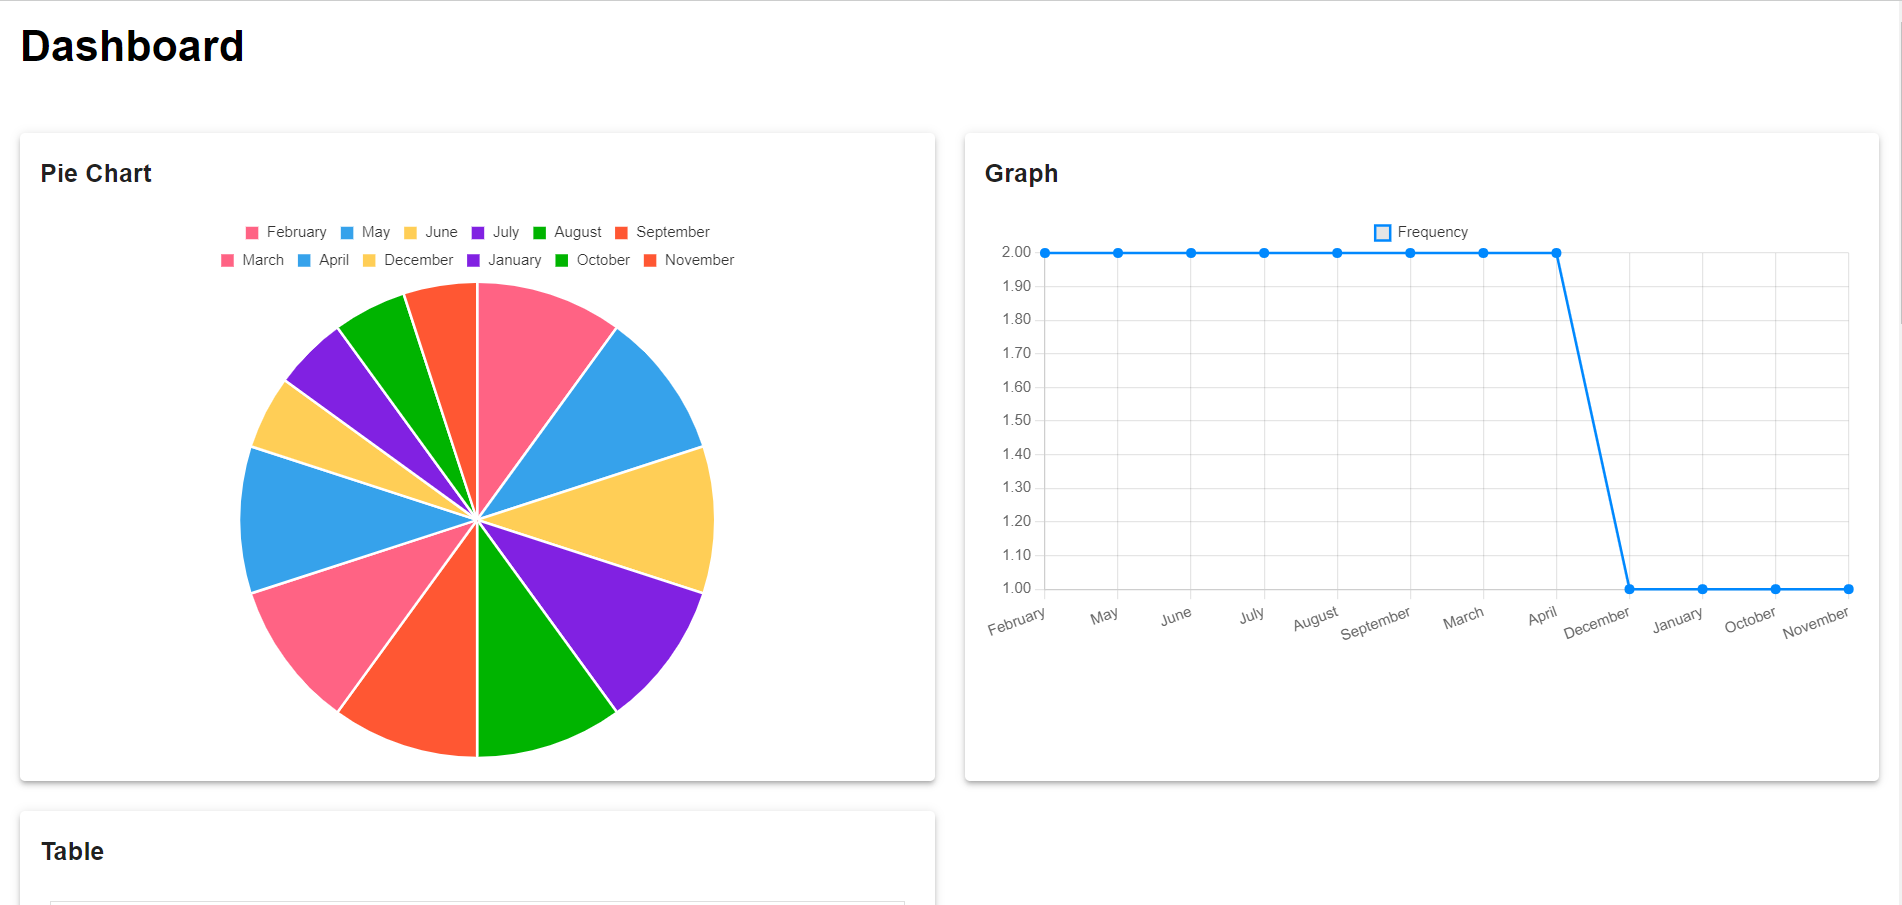
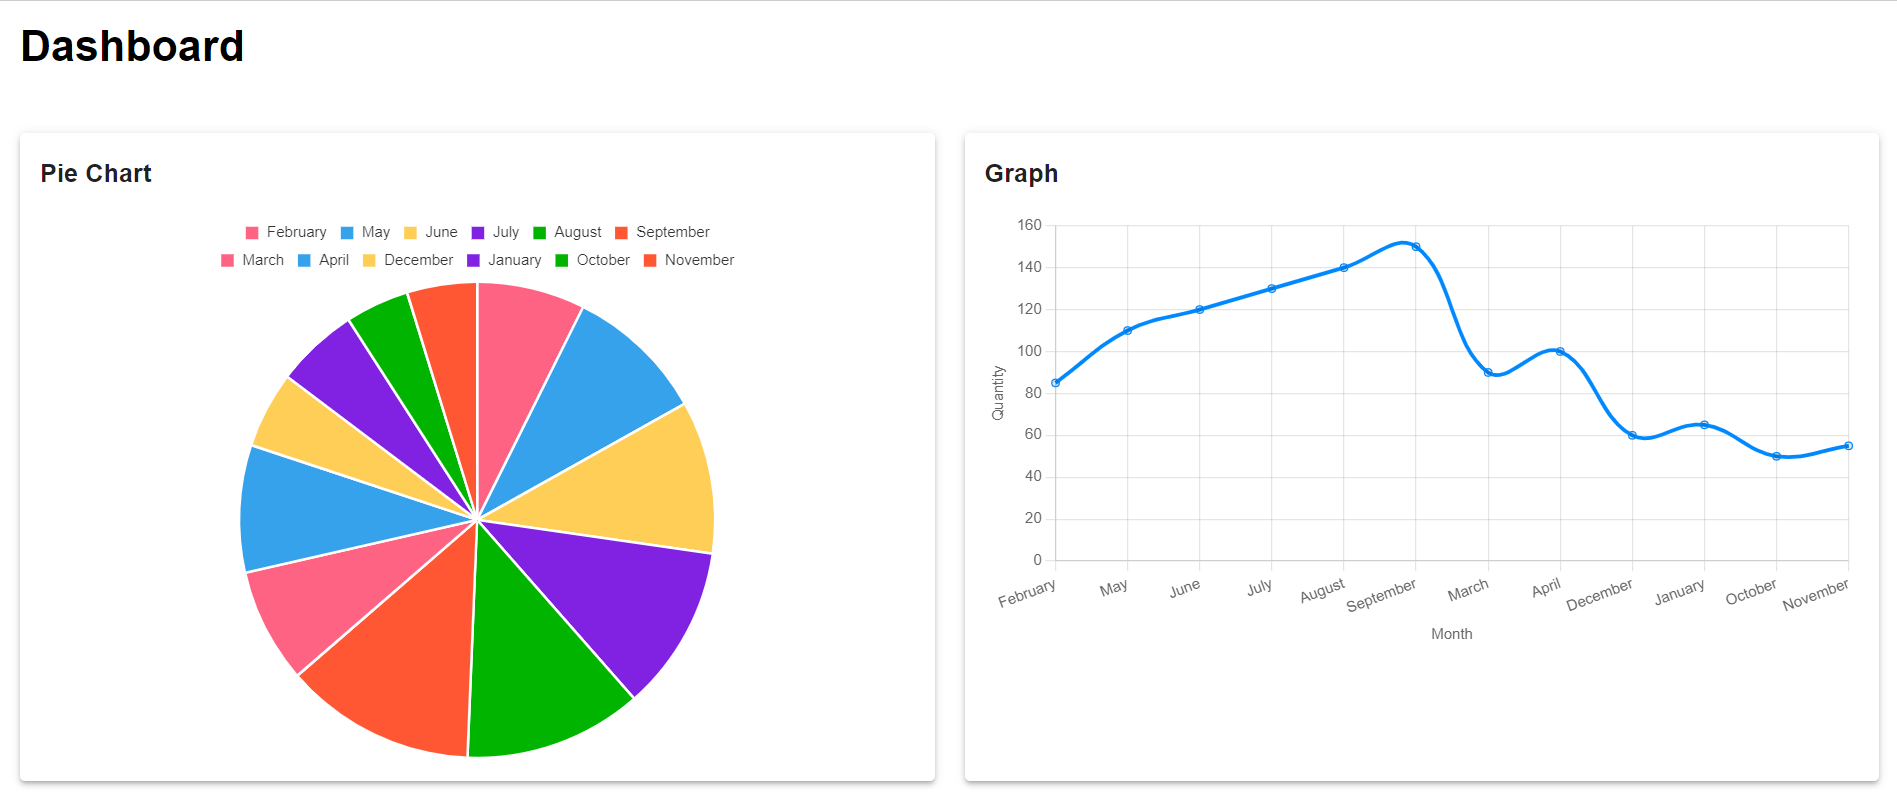
dashboard ui

diff --git a/src/components/chart/LineChart.js b/src/components/chart/LineChart.js
@@ -2,20 +2,18 @@ import React, { useEffect, useRef } from 'react';
 import Chart from 'chart.js/auto';
 import { Grid } from '@mui/material';
 
-export const LineGraph = ({ data }) => {
+export const LineChart = ({ data }) => {
 
     const chartRef = useRef(null);
 
-
     const chartInstanceRef = useRef(null);
 
-    const monthFrequency = calculateMonthFrequency(data);
+    const monthQuantity = calculateMonthQuantity(data);
 
     useEffect(() => {
         const ctx = chartRef.current?.getContext('2d');
 
         if (ctx) {
-
             if (chartInstanceRef.current) {
                 chartInstanceRef.current.destroy();
             }
@@ -23,28 +21,36 @@ export const LineGraph = ({ data }) => {
             chartInstanceRef.current = new Chart(ctx, {
                 type: 'line',
                 data: {
-                    labels: monthFrequency.map((entry) => entry.name),
+                    labels: monthQuantity.map((entry) => entry.name),
                     datasets: [
                         {
-                            label: 'Frequency',
-                            data: monthFrequency.map((entry) => entry.value),
-                            fill: false, 
-                            borderColor: '#0088FE', 
-                            borderWidth: 2,
-                            pointBackgroundColor: '#0088FE', 
+                            label: 'Quantity',
+                            data: monthQuantity.map((entry) => entry.value),
+                            fill: false,
+                            borderColor: '#0088FE',
+                            tension: 0.4,
                         },
                     ],
                 },
                 options: {
+                    scales: {
+                        y: {
+                            beginAtZero: true,
+                            title: {
+                                display: true,
+                                text: 'Quantity',
+                            },
+                        },
+                        x: {
+                            title: {
+                                display: true,
+                                text: 'Month',
+                            },
+                        },
+                    },
                     plugins: {
                         legend: {
-                            display: true,
-                            position: 'top',
-                            labels: {
-                                color: 'rgba(0, 0, 0, 0.8)',
-                                boxWidth: 12,
-                                padding: 10,
-                            },
+                            display: false,
                         },
                     },
                 },
@@ -56,7 +62,7 @@ export const LineGraph = ({ data }) => {
                 chartInstanceRef.current.destroy();
             }
         };
-    }, [monthFrequency]);
+    }, [monthQuantity]);
 
     return (
         <Grid container justifyContent="center" sx={{
@@ -70,18 +76,19 @@ export const LineGraph = ({ data }) => {
     );
 };
 
-const calculateMonthFrequency = (data) => {
-    const frequency = {};
+const calculateMonthQuantity = (data) => {
+    const quantityPerMonth = {};
 
     data?.forEach((entry) => {
         const month = new Date(entry.createdAt).toLocaleString('default', { month: 'long' });
+        const quantity = entry.quantity || 0;
 
-        if (frequency[month]) {
-            frequency[month] += 1;
+        if (quantityPerMonth[month]) {
+            quantityPerMonth[month] += quantity;
         } else {
-            frequency[month] = 1;
+            quantityPerMonth[month] = quantity;
         }
     });
 
-    return Object.keys(frequency).map((key) => ({ name: key, value: frequency[key] }));
+    return Object.keys(quantityPerMonth).map((key) => ({ name: key, value: quantityPerMonth[key] }));
 };

diff --git a/src/components/chart/PieChart.js b/src/components/chart/PieChart.js
@@ -3,11 +3,10 @@ import Chart from 'chart.js/auto';
 import { Grid } from '@mui/material';
 
 export const PieChart = ({ data }) => {
-
     const chartRef = useRef(null);
     const chartInstanceRef = useRef(null);
 
-    const monthFrequency = calculateMonthFrequency(data);
+    const monthQuantity = calculateMonthQuantity(data);
 
     useEffect(() => {
         const ctx = chartRef.current?.getContext('2d');
@@ -20,11 +19,11 @@ export const PieChart = ({ data }) => {
             chartInstanceRef.current = new Chart(ctx, {
                 type: 'pie',
                 data: {
-                    labels: monthFrequency.map((entry) => entry.name),
+                    labels: monthQuantity.map((entry) => entry.name),
                     datasets: [
                         {
-                            label: 'Frequency',
-                            data: monthFrequency.map((entry) => entry.value),
+                            label: 'Quantity',
+                            data: monthQuantity.map((entry) => entry.value),
                             backgroundColor: [
                                 '#FF6384',
                                 '#36A2EB',
@@ -57,7 +56,7 @@ export const PieChart = ({ data }) => {
                 chartInstanceRef.current.destroy();
             }
         };
-    }, [monthFrequency]);
+    }, [monthQuantity]);
 
     return (
         <Grid container justifyContent="center" sx={{
@@ -71,18 +70,19 @@ export const PieChart = ({ data }) => {
     );
 };
 
-const calculateMonthFrequency = (data) => {
-    const frequency = {};
+const calculateMonthQuantity = (data) => {
+    const quantityPerMonth = {};
 
     data?.forEach((entry) => {
         const month = new Date(entry.createdAt).toLocaleString('default', { month: 'long' });
+        const quantity = entry.quantity || 0;
 
-        if (frequency[month]) {
-            frequency[month] += 1;
+        if (quantityPerMonth[month]) {
+            quantityPerMonth[month] += quantity;
         } else {
-            frequency[month] = 1;
+            quantityPerMonth[month] = quantity;
         }
     });
 
-    return Object.keys(frequency).map((key) => ({ name: key, value: frequency[key] }));
+    return Object.keys(quantityPerMonth).map((key) => ({ name: key, value: quantityPerMonth[key] }));
 };

diff --git a/src/app/page.js b/src/app/page.js
@@ -3,9 +3,9 @@
 import React from 'react'
 import { useDataFetch } from '../hooks/useDataFetch';
 import { Grid, Paper, Typography } from '@mui/material';
-import { LineGraph } from '../components/chart/Graph';
 import CustomTable from '../components/table/CustomTable';
 import { PieChart } from '../components/chart/PieChart';
+import { LineChart } from '../components/chart/LineChart';
 
 const page = () => {
 
@@ -35,16 +35,25 @@ const page = () => {
       </Grid>
 
       <Grid item xs={12} md={6}>
+
         <Paper elevation={3} sx={{ p: 2 }}>
+
           <Typography variant='h6' sx={{ fontWeight: 'bold', mb: 2 }}>Graph</Typography>
-          <LineGraph data={order} />
+
+          <LineChart data={order} />
+
         </Paper>
+
       </Grid>
 
       <Grid item xs={12} md={6}>
+
         <Paper elevation={3} sx={{ p: 2 }}>
+
           <Typography variant='h6' sx={{ fontWeight: 'bold', mb: 2 }}>Table</Typography>
+
           <CustomTable {...tableProps} />
+
         </Paper>
       </Grid>
 
